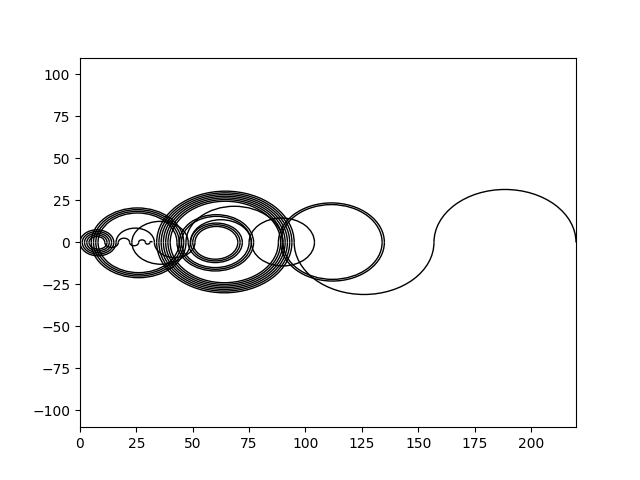
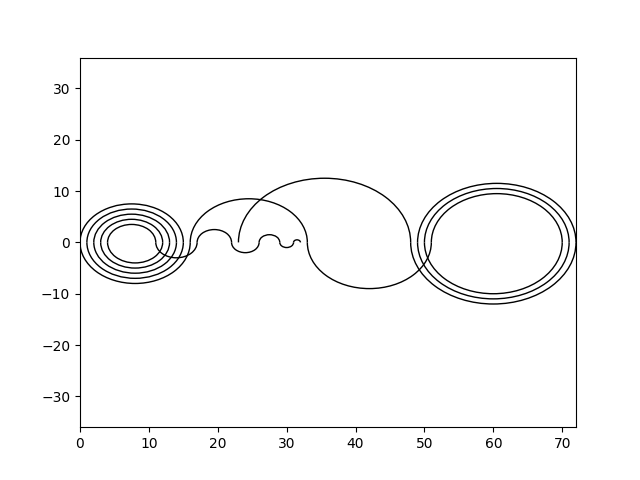
Revised change of origin logic

diff --git a/seq.py b/seq.py
@@ -18,6 +18,12 @@ def seq(length: int,
         else:
             # Otherwise, insert arr[i-1] + i
             higher_candidate = arr[i-1] + i
+
+            # If we have a non-zero base, it is possible to have no valid
+            # options for continuation. In this case, we end the sequence.
+            if origin != 0 and higher_candidate in arr:
+                return(arr[:i], largest)
+
             arr[i] = higher_candidate
 
             # Return the largest item to pass to plotting operations

diff --git a/graph.py b/graph.py
@@ -19,7 +19,11 @@ def val_plot(data: [],
     f = interp1d(x, y, kind='cubic')
 
     curve = np.linspace(0, len(data)-1, num=res*len(data), endpoint=True)
-    plt.plot(x, y, 'o', curve, f(curve))
+    plt.plot(x, y, '.', curve, f(curve))
+
+    plt.yticks(range(0, 128)[::5])
+    plt.xticks(range(0, 128)[::5])
+    plt.xticks(rotation=90)
 
     return plt
 

diff --git a/README.md b/README.md
@@ -9,14 +9,20 @@ some interesting graphs of those sequences.
 
 To generate a sequence of the given length, starting the sequence calculation at the origin. Returns the resulting sequence in a tuple together with the highest number contained in the sequence, which can then be fed into `val_plot` or `circles` to produce some nice visualizations.
 
-For instance, `circles(seq(64, 0))` yields:
+For instance, `circles(*seq(64, 0))` yields the first 64 members of the basic sequence:
 
-![img](img/64_0.png)
+![img0](img/64_0.png)
 
-A change of origin with `seq(64, 32)` produces a graph with some interesting differences:
+A change of origin with `seq(64, 32)` produces a graph with some interesting differences and definite endpoint. Due to the way the sequence works, starting at an origin other than zero introduces the possibility of a finite sequence:
 
-![img2](img/64_32.png)
+![img1](img/64_32.png)
 
-As does origin 64:
+As you can see again with origin 64:
 
-![img3](img/64_64.png)
+![img2](img/64_64.png)
+
+Interesting patterns emerge almost immediately! For instance, look at this plot of origin points to resulting sequence lengths for an (attempted) 128 member sequence:
+
+![img3](img/lengths.png)
+
+Starting on
